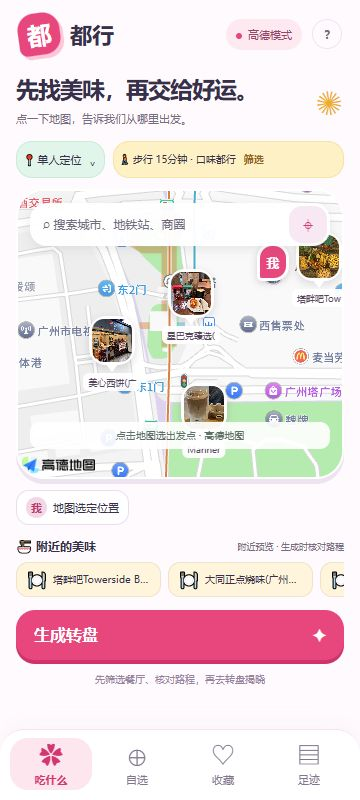
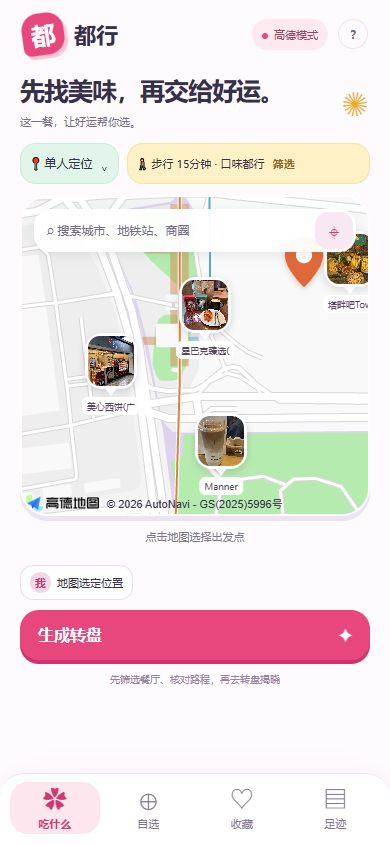
style: simplify map view and use orange location pins

diff --git a/discovery.js b/discovery.js
@@ -15,14 +15,12 @@ function renderDiscovery(){
     return;
   }
   const group=state.page==='fair',c=state.config;
-  $('#view').innerHTML=heading('先找美味，再交给好运。','点一下地图，告诉我们从哪里出发。')+`<div class="discovery-toolbar"><button id="locationMode" class="mode-button">${group?'👫 多人定位':'📍 单人定位'} <span>⌄</span></button><button id="openFilters" class="preference-button">${modeIcon(c.mode)} ${group?'各自的路程':c.mode+' '+c.limit+'分钟'} · ${c.types.length?esc(c.types.join('/')):'口味都行'} <span>筛选</span></button></div>
+  $('#view').innerHTML=heading('先找美味，再交给好运。','这一餐，让好运帮你选。')+`<div class="discovery-toolbar"><button id="locationMode" class="mode-button">${group?'👫 多人定位':'📍 单人定位'} <span>⌄</span></button><button id="openFilters" class="preference-button">${modeIcon(c.mode)} ${group?'各自的路程':c.mode+' '+c.limit+'分钟'} · ${c.types.length?esc(c.types.join('/')):'口味都行'} <span>筛选</span></button></div>
   <section class="map-stage"><div class="map-search-button"><button id="homeSearch">⌕ 搜索城市、地铁站、商圈</button><button id="homeLocate" aria-label="使用当前位置">⌖</button></div>
     ${state.live?'<div id="homeMap" aria-label="美食地图，点击选择出发点"></div><div id="homeMapLoading" class="home-map-loading">🗺 正在打开地图…</div>':demoHomeMap()}
-    <div class="map-bottom-hint" id="mapHint">${group?'点击地图调整当前成员的出发点':'点击地图选出发点'} · ${state.live?'高德地图':'示意地图'}</div>
   </section>
+  <p class="map-bottom-hint" id="mapHint" role="status">${group?'点击地图，调整当前成员的出发点':'点击地图选择出发点'}${state.live?'':' · 示意地图'}</p>
   <div class="origin-strip" id="originStrip">${originChips()}</div>
-  <div class="nearby-line"><b>🍜 附近的美味</b><small id="nearbyCaption">${state.live?'选好出发点后显示附近餐厅':'演示餐厅 · 最多展示 5 家'}</small></div>
-  <div id="nearbyStrip" class="nearby-strip"></div>
   ${state.searchMessage?`<p class="flow-error" role="status">${esc(state.searchMessage)}</p>`:''}
   <button id="buildWheel" class="btn full build-wheel" ${state.checkingMap?'disabled':''}>生成转盘 <span>✦</span></button><p class="generation-note">先筛选餐厅、核对路程，再去转盘揭晓</p>`;
   if(state.live)mountHomeMap();else bindDemoHome();
@@ -32,9 +30,13 @@ function originChips(){
   const list=state.live?originList():people().map((p,i)=>({...p,label:group?String.fromCharCode(65+i):'我'}));
   return list.map((p,i)=>`<button class="origin-chip ${group&&i===state.activeOrigin?'selected':''}" ${group?`data-home-person="${i}"`:'id="homeOrigin"'}><b>${p.label}</b><span>${esc(p.name||'待选点')}${group?`<small>${p.mode} ${p.limit}分钟</small>`:''}</span></button>`).join('')+(group?'<button id="openPeople" class="origin-edit">编辑</button>':'');
 }
+function originPin(label){
+  const group=label!=='我';
+  return `<svg class="origin-pin-art" viewBox="0 0 64 84" role="img" aria-label="${group?'成员 '+esc(label)+' 的出发点':'我的出发点'}"><path d="M32 1C14.9 1 1 14.9 1 32c0 21 31 51 31 51s31-30 31-51C63 14.9 49.1 1 32 1Z" fill="currentColor"/><circle cx="32" cy="31" r="13" fill="white"/>${group?`<text x="32" y="36" text-anchor="middle" fill="currentColor" font-size="15" font-weight="800">${esc(label)}</text>`:''}</svg>`;
+}
 function demoHomeMap(){return `<div id="demoHomeMap" aria-label="演示地图，点击选择出发点"><svg viewBox="0 0 360 380" preserveAspectRatio="none" aria-hidden="true"><rect width="360" height="380" fill="#e5f4e6"/><path d="M310 -10 Q160 100 300 235 T320 400" stroke="#acdfe8" stroke-width="45" fill="none"/><g stroke="#fffdf8" stroke-width="14" fill="none"><path d="M-10 90 L390 140 M100 -10 L150 400 M-10 300 L390 245 M-10 200 L390 180"/></g><g fill="#cee8c7"><rect x="15" y="15" width="65" height="55" rx="15"/><rect x="175" y="30" width="55" height="60" rx="16"/><rect x="25" y="225" width="63" height="45" rx="14"/><rect x="190" y="300" width="60" height="65" rx="15"/></g><text x="16" y="355" fill="#689383" font-size="12">榕树街区 · 演示</text></svg><div id="demoPins"></div></div>`;}
 function bindDemoHome(){
-  discovery.previews=eligible().slice(0,5);paintDemoPins();paintPreviewStrip();
+  discovery.previews=eligible().slice(0,5);paintDemoPins();
   $('#demoHomeMap').onclick=event=>{
     if(event.target.closest('button'))return;
     const r=event.currentTarget.getBoundingClientRect();const p={name:'地图选点',x:Math.max(10,Math.min(90,(event.clientX-r.left)/r.width*100)),y:Math.max(10,Math.min(90,(event.clientY-r.top)/r.height*100))};
@@ -43,7 +45,7 @@ function bindDemoHome(){
   };
 }
 function paintDemoPins(){
-  const ps=people();$('#demoPins').innerHTML=ps.map((p,i)=>`<span class="demo-origin" style="left:${p.x}%;top:${p.y}%">${state.page==='fair'?String.fromCharCode(65+i):'我'}</span>`).join('')+discovery.previews.map((s,i)=>`<button class="demo-food food-map-pin" data-preview="${i}" style="left:${15+i*16}%;top:${[28,55,36,70,25][i]}%"><span>${s.emoji}</span><small>${esc(s.name.slice(0,5))}</small></button>`).join('');
+  const ps=people();$('#demoPins').innerHTML=ps.map((p,i)=>`<span class="demo-origin" style="left:${p.x}%;top:${p.y}%">${originPin(state.page==='fair'?String.fromCharCode(65+i):'我')}</span>`).join('')+discovery.previews.map((s,i)=>`<button class="demo-food food-map-pin" data-preview="${i}" style="left:${15+i*16}%;top:${[28,55,36,70,25][i]}%"><span>${s.emoji}</span><small>${esc(s.name.slice(0,5))}</small></button>`).join('');
 }
 async function mountHomeMap(){
   const token=discovery.token;
@@ -62,13 +64,13 @@ function chooseHomePoint(location,name='地图选定位置',city=''){
   state.request++;state.candidates=[];state.searchMessage='';
   const point={location,name,city};
   if(state.page==='fair')state.people[state.activeOrigin].origin=point;else state.origin=point;
-  discovery.previews=[];$('#originStrip').innerHTML=originChips();paintHomePins(false);paintPreviewStrip();loadHomePreviews();
+  discovery.previews=[];$('#originStrip').innerHTML=originChips();paintHomePins(false);loadHomePreviews();
 }
 function paintHomePins(fit){
   const map=discovery.map;if(!map)return;const A=window.AMap;
   if(discovery.markers.length)map.remove(discovery.markers);discovery.markers=[];
   const originMarkers=[];
-  originList().forEach((p,i)=>{if(!p.location)return;const marker=new A.Marker({position:p.location,anchor:'bottom-center',zIndex:200,content:`<div class="origin-map-pin ${state.page==='fair'&&i===state.activeOrigin?'active':''}">${p.label}</div>`});originMarkers.push(marker);discovery.markers.push(marker);});
+  originList().forEach((p,i)=>{if(!p.location)return;const marker=new A.Marker({position:p.location,anchor:'bottom-center',zIndex:200,content:`<div class="origin-map-pin ${state.page==='fair'&&i===state.activeOrigin?'active':''}">${originPin(p.label)}</div>`});originMarkers.push(marker);discovery.markers.push(marker);});
   const visible=[];
   for(const store of discovery.previews){
     if(store.source!=='amap'||!DouxMap.coordinates(store.location))continue;
@@ -88,23 +90,19 @@ function paintHomePins(fit){
 }
 async function loadHomePreviews(){
   const ps=originList().filter(p=>p.location),token=++discovery.previewToken;
-  if(!ps.length){discovery.previews=[];paintPreviewStrip();return;}
+  if(!ps.length){discovery.previews=[];return;}
   const center=[0,1].map(i=>ps.reduce((n,p)=>n+p.location[i],0)/ps.length);
   const config={...state.config,limit:Math.max(...ps.map(p=>p.limit)),mode:ps.some(p=>p.mode==='驾车')?'驾车':ps.some(p=>p.mode==='公共交通')?'公共交通':'步行'};
   const key=JSON.stringify([center,config.types,config.limit,config.mode]);
-  $('#nearbyCaption').textContent='正在找附近餐厅…';
+  $('#mapHint').textContent=state.page==='fair'?'点击地图，调整当前成员的出发点':'点击地图选择出发点';
   try{
     const stores=discovery.cache?.key===key?discovery.cache.stores:await DouxMap.nearby(center,config);
     discovery.cache={key,stores};if(token!==discovery.previewToken||!$('#homeMap'))return;
     discovery.previews=[];
     for(const store of stores){if(discovery.previews.length>=5)break;if(!discovery.previews.some(p=>Math.hypot(p.location[0]-store.location[0],p.location[1]-store.location[1])<.00065))discovery.previews.push(store);}
-    stores.forEach(s=>state.catalog[s.id]=s);paintHomePins(true);paintPreviewStrip();
-    $('#nearbyCaption').textContent=stores.length?'附近预览 · 生成时核对路程':'附近暂未找到餐厅';
-  }catch(error){if(token===discovery.previewToken&&$('#nearbyCaption')){discovery.previews=[];paintHomePins(false);paintPreviewStrip();$('#nearbyCaption').textContent='暂未获取餐厅，可重新选点重试';$('#mapHint').textContent=error.message;}}
-}
-function paintPreviewStrip(){
-  const node=$('#nearbyStrip');if(!node)return;
-  node.innerHTML=discovery.previews.map((s,i)=>`<button data-preview="${i}" class="preview-chip"><span>${s.emoji||'🍜'}</span><strong>${esc(s.name)}</strong></button>`).join('')||'<span class="muted">选个出发点，美味就在附近等你。</span>';
+    stores.forEach(s=>state.catalog[s.id]=s);paintHomePins(true);
+    if(!stores.length)$('#mapHint').textContent='附近暂未找到餐厅，试试调整位置或筛选。';
+  }catch(error){if(token===discovery.previewToken&&$('#mapHint')){discovery.previews=[];paintHomePins(false);$('#mapHint').textContent=error.message;}}
 }
 function openLocationMode(){showModal(modalTop('这次，和谁一起吃？')+`<div class="location-choices"><button data-location-mode="single"><span>🙋</span><strong>单人定位</strong><small>以一个出发点寻找附近美食</small></button><button data-location-mode="multi"><span>👫</span><strong>多人定位</strong><small>2～6 个起点，照顾每个人的路程</small></button></div>`);}
 function returnToMap(){state.request++;state.loading=false;state.stage='map';state.searchMessage='';render();window.scrollTo({top:0});}

diff --git a/style.css b/style.css
@@ -15,9 +15,9 @@ dialog{border:0;border-radius:30px;padding:0;max-width:460px;width:calc(100% - 2
 /* Map → preparation → wheel: one decision per screen. */
 main:has(.map-stage){padding-top:6px}main:has(.map-stage) .heading{margin-bottom:12px}main:has(.map-stage) .heading h1{font-size:25px}main:has(.map-stage) .heading p{font-size:11px;margin-top:5px}main:has(.map-stage) .icon-burst{font-size:33px}
 .discovery-toolbar{display:flex;align-items:stretch;gap:8px;margin-bottom:11px}.mode-button{background:#e0f5eb;border:1px solid #c9ebda;border-radius:16px;font-size:12px;padding:11px 10px;white-space:nowrap}.mode-button span{margin-left:5px}.preference-button{flex:1;min-width:0;background:#fff1c5;border:1px solid #f6e4a5;border-radius:16px;padding:10px;font-size:11px;text-align:left;white-space:nowrap;overflow:hidden;text-overflow:ellipsis}.preference-button span{font-weight:bold;color:#95641a;margin-left:5px}
-.map-stage{height:clamp(280px,38dvh,360px);border:2px solid #fff;border-radius:28px;position:relative;overflow:hidden;box-shadow:0 5px 0 #eee4f1;background:#e5f4e6}#homeMap,#demoHomeMap{width:100%;height:100%}#demoHomeMap{position:relative;cursor:crosshair;overflow:hidden}#demoHomeMap>svg{position:absolute;inset:0;width:100%;height:100%}.map-search-button{position:absolute;z-index:3;left:12px;right:12px;top:12px;display:flex;gap:6px;background:#fffffff5;border-radius:17px;box-shadow:0 3px 12px #526f5520;padding:3px}.map-search-button button:first-child{flex:1;text-align:left;font-size:12px;padding:10px;color:#726b7e;min-width:0}.map-search-button button:last-child{width:38px;font-size:24px;background:#f8e8f3;border-radius:13px;color:#d23d76}.home-map-loading{position:absolute;inset:62px 12px 40px;display:flex;align-items:center;justify-content:center;flex-direction:column;gap:16px;text-align:center;color:#5c7e6b;font-size:13px;background:#e5f4e6e8;padding:20px;border-radius:20px}.home-map-loading>span{font-size:48px}.map-bottom-hint{position:absolute;pointer-events:none;bottom:28px;left:12px;right:12px;border-radius:10px;background:#ffffffea;color:#5f7068;font-size:10px;line-height:1.5;padding:6px 9px;text-align:center;z-index:3}
+.map-stage{height:clamp(280px,38dvh,360px);border:2px solid #fff;border-radius:28px;position:relative;overflow:hidden;box-shadow:0 5px 0 #eee4f1;background:#e5f4e6}#homeMap,#demoHomeMap{width:100%;height:100%}#demoHomeMap{position:relative;cursor:crosshair;overflow:hidden}#demoHomeMap>svg{position:absolute;inset:0;width:100%;height:100%}.map-search-button{position:absolute;z-index:3;left:12px;right:12px;top:12px;display:flex;gap:6px;background:#fffffff5;border-radius:17px;box-shadow:0 3px 12px #526f5520;padding:3px}.map-search-button button:first-child{flex:1;text-align:left;font-size:12px;padding:10px;color:#726b7e;min-width:0}.map-search-button button:last-child{width:38px;font-size:24px;background:#f8e8f3;border-radius:13px;color:#d23d76}.home-map-loading{position:absolute;inset:62px 12px 40px;display:flex;align-items:center;justify-content:center;flex-direction:column;gap:16px;text-align:center;color:#5c7e6b;font-size:13px;background:#e5f4e6e8;padding:20px;border-radius:20px}.home-map-loading>span{font-size:48px}.map-bottom-hint{position:static;color:#81758a;font-size:11px;line-height:1.6;padding:0 4px;margin:12px 0 8px;text-align:center}
 .origin-strip{display:flex;align-items:center;gap:6px;overflow:auto;padding:11px 0 7px}.origin-chip{display:flex;gap:6px;align-items:center;border:1px solid #eaddf0;background:white;border-radius:13px;padding:6px 9px;font-size:11px;min-height:34px;white-space:nowrap;max-width:100%}.origin-chip b{display:grid;place-items:center;border-radius:50%;width:21px;height:21px;background:#f5d7e6;color:#bf376b;flex-shrink:0}.origin-chip span{overflow:hidden;text-overflow:ellipsis}.origin-chip small{font-size:9px;display:block;margin-top:2px}.origin-chip.selected{border-color:#f095b7;background:#fff0f6}.origin-edit{font-size:11px;color:#d03b75;margin-left:auto;white-space:nowrap;min-height:34px}.nearby-line{display:flex;align-items:center;justify-content:space-between;gap:8px;padding:6px 0}.nearby-line b{font-size:12px;white-space:nowrap}.nearby-line small{font-size:9px;text-align:right}.nearby-strip{display:flex;gap:7px;overflow:auto;padding:2px 0 10px;min-height:40px}.preview-chip{display:flex;align-items:center;gap:5px;border:1px solid #f2e2cd;border-radius:12px;background:#fff5db;padding:6px 9px;flex-shrink:0;max-width:145px}.preview-chip strong{font-size:10px;font-weight:500;overflow:hidden;white-space:nowrap;text-overflow:ellipsis}.preview-chip span{font-size:16px}.build-wheel{font-size:16px;min-height:50px;border-radius:19px;box-shadow:0 4px 0 #d3326a;margin-top:3px}.build-wheel span{margin-left:auto}.generation-note{text-align:center;font-size:10px;color:#96839e;margin-top:12px}.flow-error{padding:12px;background:#ffecf2;color:#a33b60;border-radius:15px;font-size:12px;line-height:1.7;margin:8px 0}
-.food-map-pin{background:white;border:3px solid white;border-radius:17px;width:52px;height:56px;box-shadow:0 3px 8px #352c442b;position:relative;display:flex;align-items:center;justify-content:center;padding:0;cursor:pointer}.food-map-pin>img{width:100%;height:100%;object-fit:cover;border-radius:12px}.food-map-pin>span{font-size:30px;background:#fff0c0;display:grid;place-items:center;width:100%;height:100%;border-radius:12px}.food-map-pin:after{content:'';position:absolute;bottom:-10px;left:calc(50% - 7px);border-left:7px solid transparent;border-right:7px solid transparent;border-top:9px solid white}.food-map-pin small{position:absolute;left:50%;transform:translateX(-50%);bottom:-29px;white-space:nowrap;background:#fffffff0;color:#56465c;font-size:9px;max-width:90px;overflow:hidden;text-overflow:ellipsis;padding:3px 5px;border-radius:6px}.origin-map-pin,.demo-origin{width:32px;height:38px;background:#ed467e;color:white;border:3px solid white;border-radius:15px 15px 15px 5px;display:grid;place-items:center;font-weight:800;font-size:13px;box-shadow:0 2px 7px #7b486744}.origin-map-pin.active{background:#8260c6}.demo-origin{position:absolute;z-index:2;transform:translate(-50%,-100%)}.demo-food{position:absolute;transform:translate(-50%,-100%)}
+.food-map-pin{background:white;border:3px solid white;border-radius:17px;width:52px;height:56px;box-shadow:0 3px 8px #352c442b;position:relative;display:flex;align-items:center;justify-content:center;padding:0;cursor:pointer}.food-map-pin>img{width:100%;height:100%;object-fit:cover;border-radius:12px}.food-map-pin>span{font-size:30px;background:#fff0c0;display:grid;place-items:center;width:100%;height:100%;border-radius:12px}.food-map-pin:after{content:'';position:absolute;bottom:-10px;left:calc(50% - 7px);border-left:7px solid transparent;border-right:7px solid transparent;border-top:9px solid white}.food-map-pin small{position:absolute;left:50%;transform:translateX(-50%);bottom:-29px;white-space:nowrap;background:#fffffff0;color:#56465c;font-size:9px;max-width:90px;overflow:hidden;text-overflow:ellipsis;padding:3px 5px;border-radius:6px}.origin-map-pin,.demo-origin{width:40px;height:52px;color:#e56935;filter:drop-shadow(0 3px 3px #79402235)}.origin-pin-art{display:block;width:100%;height:100%}.origin-map-pin.active{color:#c95427}.demo-origin{position:absolute;z-index:2;transform:translate(-50%,-100%)}.demo-food{position:absolute;transform:translate(-50%,-100%)}
 .location-choices{display:grid;gap:14px}.location-choices button{border:1px solid #e7d9f2;border-radius:25px;padding:22px;display:grid;grid-template-columns:50px 1fr;gap:7px;text-align:left;background:#f3eaff}.location-choices button:first-child{background:#e4f8ee;border-color:#c8ecdb}.location-choices span{grid-row:1/3;font-size:36px}.location-choices strong{font-size:17px}.location-choices small{font-size:12px;line-height:1.6}.step-nav{display:flex;align-items:center;justify-content:space-between;color:#8d7798;font-size:11px;margin:0 0 20px}.step-nav button{background:#f0e6fa;border-radius:13px;padding:10px 13px;font-size:12px;color:#75588e}.generation-screen{text-align:center;padding:40px 9px 20px}.loading-plate{background:#fff0c1;width:150px;height:150px;display:grid;place-items:center;border:10px solid #fff;border-radius:50%;box-shadow:0 6px 0 #f6d576;margin:12px auto 38px;font-size:76px;position:relative}.loading-plate>span{position:absolute;right:-20px;top:-10px;color:#e89f20;font-size:34px}.generation-screen h1{font-size:27px;margin-bottom:14px}.generation-screen>p{line-height:1.8;font-size:13px;color:#87748f}.progress-track{height:15px;background:#f1e3ef;border-radius:20px;overflow:hidden;margin:28px 0 15px}.progress-track>div{height:100%;background:#ed467e;border-radius:20px;transition:width .25s}.loading-steps{display:flex;justify-content:center;flex-wrap:wrap;gap:8px;margin:28px 0;font-size:11px}.loading-steps span{padding:9px;border-radius:12px;background:#e7f5ed;color:#537b69}
 @media(max-width:375px){main:has(.map-stage) .heading h1{font-size:23px}.mode-button{padding:10px 8px;font-size:11px}.preference-button{padding:9px 7px;font-size:10px}.map-stage{height:290px}.food-map-pin{width:46px;height:49px}.nearby-line small{font-size:9px}}
 

diff --git a/README.md b/README.md
@@ -2,7 +2,7 @@
 
 双击 `启动原型.cmd`（需要 Node.js 18+），打开 http://127.0.0.1:5173 。无需安装依赖或构建。
 
-手机竖屏优先，360px 起适配；电脑上保持居中的手机内容宽度。明亮的粉、黄、绿、蓝、紫搭配圆润卡片。首页以地图为主体，可直接点击选点，附近商户使用少量照片图钉展示。点击「生成转盘」进入独立进度页，完成后进入转盘页，再点击开始。筛选、定位方式、多人起点和候选详情通过圆角弹窗展开。
+手机竖屏优先，360px 起适配；电脑上保持居中的手机内容宽度。明亮的粉、黄、绿、蓝、紫搭配圆润卡片。首页以地图为主体，可直接点击选点，附近商户仅在地图内使用少量照片图钉展示，不再显示下方预览列表；选点提示放在地图下方，我的位置使用橙色水滴图钉。点击「生成转盘」进入独立进度页，完成后进入转盘页，再点击开始。筛选、定位方式、多人起点和候选详情通过圆角弹窗展开。
 
 已保留附近筛选、菜系（新增奶茶）/时间/预算、营业与未知处理、等概率抽取、本轮不重复、入选理由、快速调整、自定义候选、收藏、分享图片、本机到店记录与反馈、公平集合点。
 

diff --git a/验证记录.md b/验证记录.md
@@ -25,3 +25,10 @@
 设备定位授权、手机实机、高德 App 跳转及跨城市公交方案未实测。AI 联网评价检索尚未接入；评分、人均或照片缺失时保留未知，不使用演示信息补充真实门店。真实模式的严格营业筛选不把未知时段推断为营业。
 
 本地服务仅监听 127.0.0.1。分发包不含 `.env` 与任何真实凭证。
+
+## 地图简化调整
+
+- 移除地图下方的美食预览列表，仍可点击地图内的商户图片查看详情。
+- 选点提示移至地图下方，避免覆盖地图内容。
+- 使用内联 SVG 绘制橙色空心水滴图钉，单人和多人 / 演示地图共用；多人保留字母区分。
+- 390px / 360px 实际渲染通过；页面无横向溢出。已实测点击商户图片打开详情，语法与 diff 检查通过。
